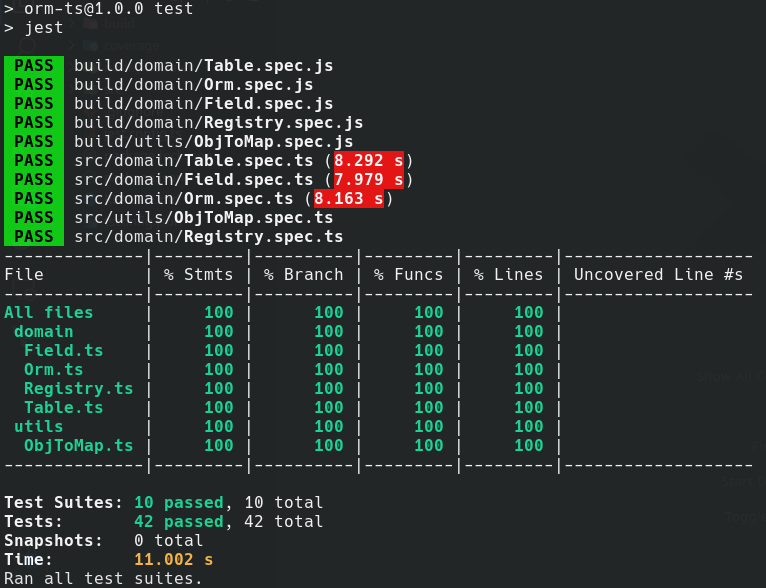
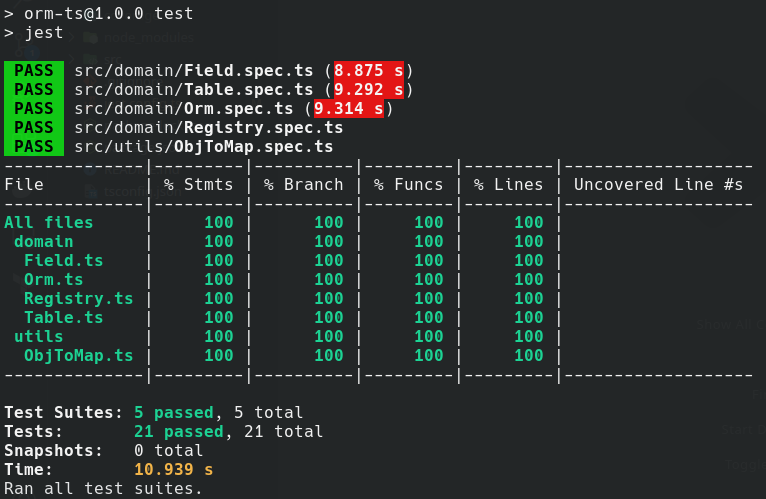
fixed jestconfig and image

diff --git a/jest.config.ts b/jest.config.ts
@@ -8,7 +8,7 @@ const config: Config = {
   coverageDirectory: "coverage",
   coverageProvider: "v8",
   preset: "ts-jest",
-  testMatch: ["**/?(*.)+(spec|test).[tj]s?(x)"],
+  testMatch: ["**/?(*.)+(spec|test).[t]s?(x)"],
 };
 
 export default config;
